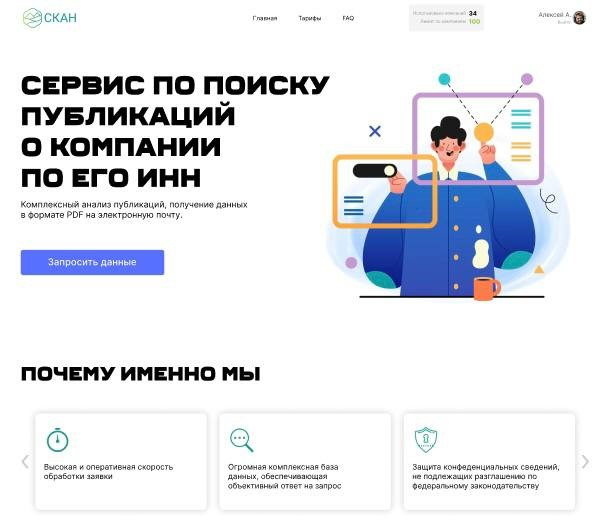
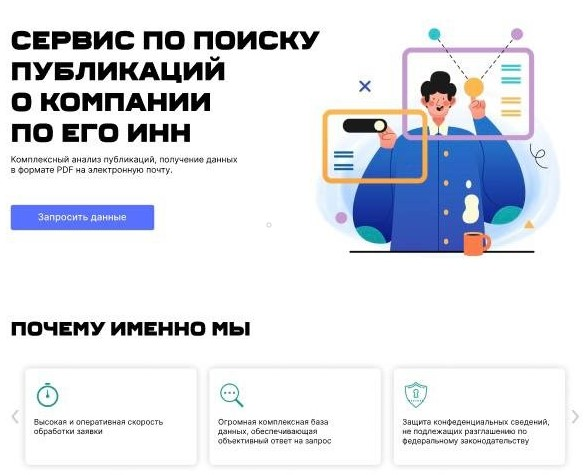
update mob vesion

diff --git a/src/pages/ProjectsPage/projects.css b/src/pages/ProjectsPage/projects.css
@@ -354,22 +354,41 @@
         margin-top: 40px;
     }
 
+    .projects_card_img {
+        height: 80%;
+    }
+
     .projects_card_text {
         height: 50%;
     }
 }
 
 @media screen and (max-width: 500px) {
-    .projects_card_text {
-        height: 70%;
+    .projects_wrapper_cards_first {
+        display: grid;
+        grid-template-areas: 
+        "projects_card_one"
+        "projects_card_two"
+        "projects_card_three"
+        "projects_card_four"
+        "projects_card_five";
+        gap: 12px;
+        margin-bottom: 12px;
     }
-
-    .projects_card_img {
-        height: 50%;
+    
+    .projects_wrapper_cards_second {
+        display: grid;
+        grid-template-areas: 
+        "projects_card_seven"
+        "projects_card_eight"
+        "projects_card_six"
+        "projects_card_nine"
+        "projects_card_ten";
+        gap: 12px;
     }
 
     .projects_js_card {
-        padding: 0;
+        padding: 10px 0;
     }
 
     .projects_js_card_text{
@@ -383,15 +402,6 @@
     .projects_footer_icon {
         width: 25px;
     }
-
-    .projects_wrapper_cards_first {
-        gap: 10px;
-        margin-bottom: 10px;
-    }
-
-    .projects_wrapper_cards_second {
-        gap: 10px;
-    }
 }
 
 @media screen and (max-width: 450px) {
@@ -402,20 +412,6 @@
     .projects_js_title {
         font-size: 22px;
         width: 220px;
-    }
-
-    .projects_card_title {
-        font-size: 9px;
-    }
-
-    .projects_card_subtitle {
-        font-size: 9px;
-        line-height: 14px;
-    }
-
-    .projects_card_button {
-        font-size: 9px;
-        padding: 2px 16px;
     }
 
     .projects_js_card_button {
